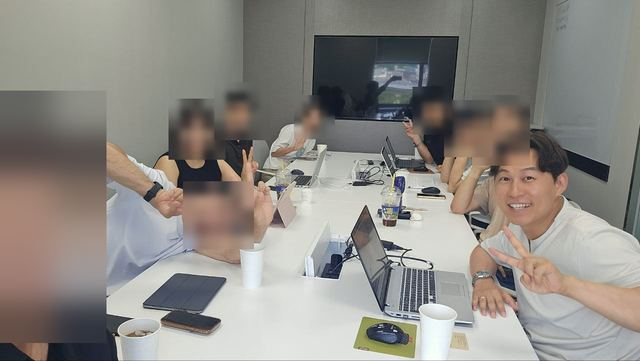
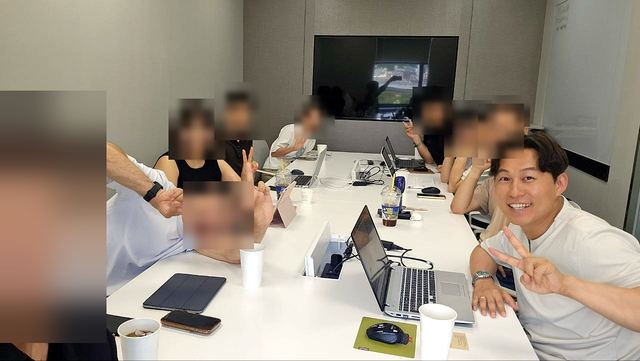
가치 투자 성장 스토리: 6장 운영자 얼굴이 다른 사람 모자이크에 가리지 않게 보호(다른 사람 얼굴은 마지막에 다시 가림) · 밝기·선명도 살짝 · 12/17 확대

diff --git a/tools/growth_photos.py b/tools/growth_photos.py
@@ -86,10 +86,11 @@ def grow(b: dict, W: int, H: int) -> tuple[int, int, int, int]:
 
 
 def mosaic(img, boxes: list[dict]):
-    """keep(본인)이 아닌 상자를 큰 칸 모자이크 + 흐림으로 덮는다."""
+    """keep(본인)이 아닌 상자를 큰 칸 모자이크 + 흐림으로 덮는다. src='me' 상자(본인 얼굴)는 다른 사람 모자이크가 덮지 않게 원본으로 되돌린다."""
     import cv2
     H, W = img.shape[:2]
     out = img.copy()
+    me = [protect(b, W, H) for b in boxes if b.get("src") == "me"]
     for b in boxes:
         if b.get("keep"):
             continue
@@ -101,7 +102,40 @@ def mosaic(img, boxes: list[dict]):
         small = cv2.resize(roi, (max(1, (x1 - x0) // cell), max(1, (y1 - y0) // cell)), interpolation=cv2.INTER_AREA)
         px = cv2.resize(small, (x1 - x0, y1 - y0), interpolation=cv2.INTER_NEAREST)
         out[y0:y1, x0:x1] = cv2.GaussianBlur(px, (0, 0), cell / 3)
+    if not me:
+        return out
+    for x0, y0, x1, y1 in me:                                   # 본인 얼굴·머리는 원본 그대로(넓힌 모자이크 가장자리만 걷힘)
+        out[y0:y1, x0:x1] = img[y0:y1, x0:x1]
+    for b in boxes:                                             # 다른 사람 얼굴 자체는 마지막에 다시 덮는다(본인 보호보다 우선)
+        if b.get("keep"):
+            continue
+        cx0, cy0 = max(0, int(b["x"] - b["w"] * 0.1)), max(0, int(b["y"] - b["h"] * 0.15))
+        cx1, cy1 = min(W, int(b["x"] + b["w"] * 1.1)), min(H, int(b["y"] + b["h"] * 1.1))
+        if any(cx0 < x1 and x0 < cx1 and cy0 < y1 and y0 < cy1 for x0, y0, x1, y1 in me):
+            cell = max(5, int(max(cx1 - cx0, cy1 - cy0) / 6))
+            roi = img[cy0:cy1, cx0:cx1]
+            small = cv2.resize(roi, (max(1, (cx1 - cx0) // cell), max(1, (cy1 - cy0) // cell)), interpolation=cv2.INTER_AREA)
+            out[cy0:cy1, cx0:cx1] = cv2.GaussianBlur(cv2.resize(small, (cx1 - cx0, cy1 - cy0), interpolation=cv2.INTER_NEAREST), (0, 0), cell / 3)
     return out
+
+
+def protect(b: dict, W: int, H: int) -> tuple[int, int, int, int]:
+    """본인 얼굴 보호 영역: 좌우 12%, 위 30%(머리카락), 아래 12%."""
+    return (max(0, int(b["x"] - b["w"] * 0.12)), max(0, int(b["y"] - b["h"] * 0.30)),
+            min(W, int(b["x"] + b["w"] * 1.12)), min(H, int(b["y"] + b["h"] * 1.12)))
+
+
+def finish(img, d: dict):
+    """사진 단위 보정: enhance(밝기·대비 살짝, 선명하게), crop([x, y, w, h] 원본 좌표)."""
+    from PIL import ImageEnhance, ImageOps
+    if d.get("crop"):
+        x, y, w, h = d["crop"]
+        img = img.crop((x, y, x + w, y + h))
+    if d.get("enhance"):
+        img = ImageOps.autocontrast(img, cutoff=0.5)
+        img = ImageEnhance.Brightness(img).enhance(1.04)
+        img = ImageEnhance.Sharpness(img).enhance(1.25)
+    return img
 
 
 # ── 명령 ──
@@ -241,7 +275,7 @@ def apply(src: Path, push: bool = False) -> None:
         day = d["date"] or "0000-00-00"
         per_day[day] = per_day.get(day, 0) + 1
         name = f"{day}_{per_day[day]}.jpg"
-        img = Image.fromarray(cv2.cvtColor(mosaic(_read(p), d["boxes"]), cv2.COLOR_BGR2RGB))
+        img = finish(Image.fromarray(cv2.cvtColor(mosaic(_read(p), d["boxes"]), cv2.COLOR_BGR2RGB)), d)
         big = img.copy()
         big.thumbnail((SIZE, SIZE), Image.LANCZOS)
         big.save(OUT / name, "JPEG", quality=82, optimize=True, progressive=True)        # exif 없이 저장

diff --git a/tests/test_growth_photos.py b/tests/test_growth_photos.py
@@ -41,5 +41,16 @@ class MosaicTest(unittest.TestCase):
         self.assertTrue(np.array_equal(img, img.copy()))                         # 원본은 안 건드림
 
 
+class ProtectTest(unittest.TestCase):
+    def test_owner_area_restored_but_other_face_stays_masked(self):
+        rng = np.random.default_rng(1)
+        img = rng.integers(0, 255, (300, 300, 3), dtype=np.uint8)
+        other = B(100, 40, 60, 60)                      # 본인 바로 뒤(위)에 앉은 사람
+        me = B(100, 120, 80, 80, keep=True, src="me")   # 본인
+        out = mosaic(img, [other, me])
+        self.assertTrue(np.array_equal(out[125:195, 105:175], img[125:195, 105:175]))   # 본인 얼굴: 원본
+        self.assertLess(out[45:95, 105:155].std(), img[45:95, 105:155].std() / 3)        # 다른 사람 얼굴: 여전히 모자이크
+
+
 if __name__ == "__main__":
     unittest.main()
